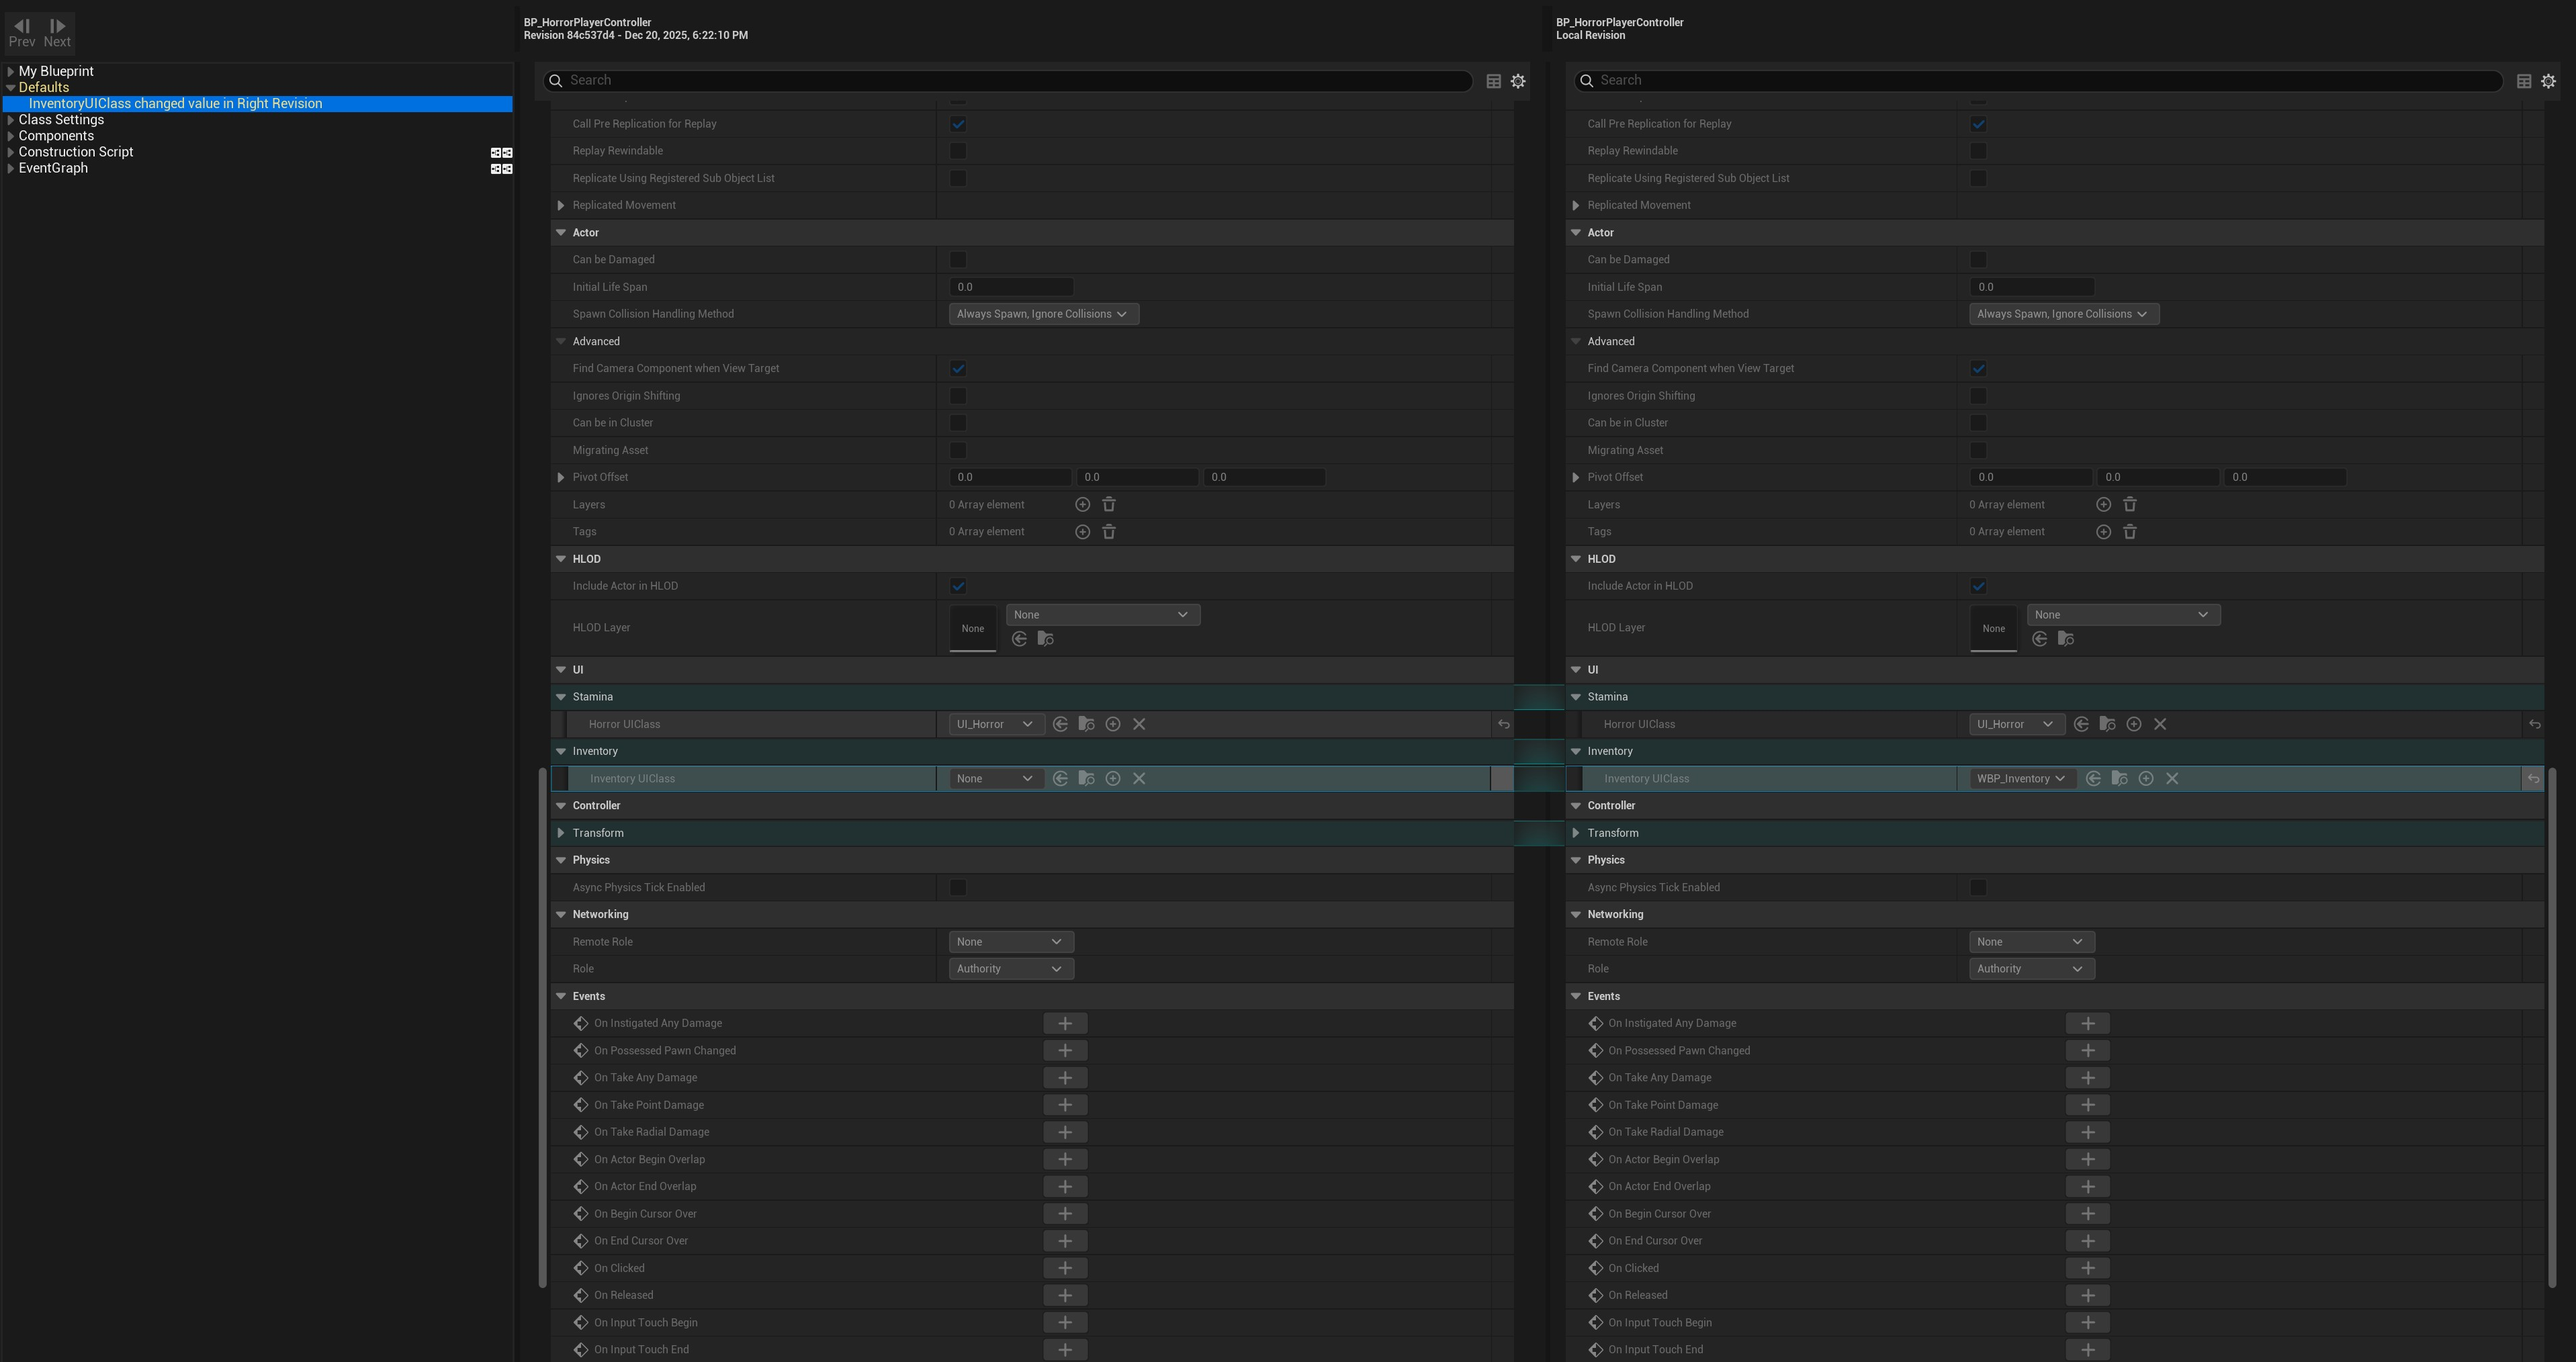
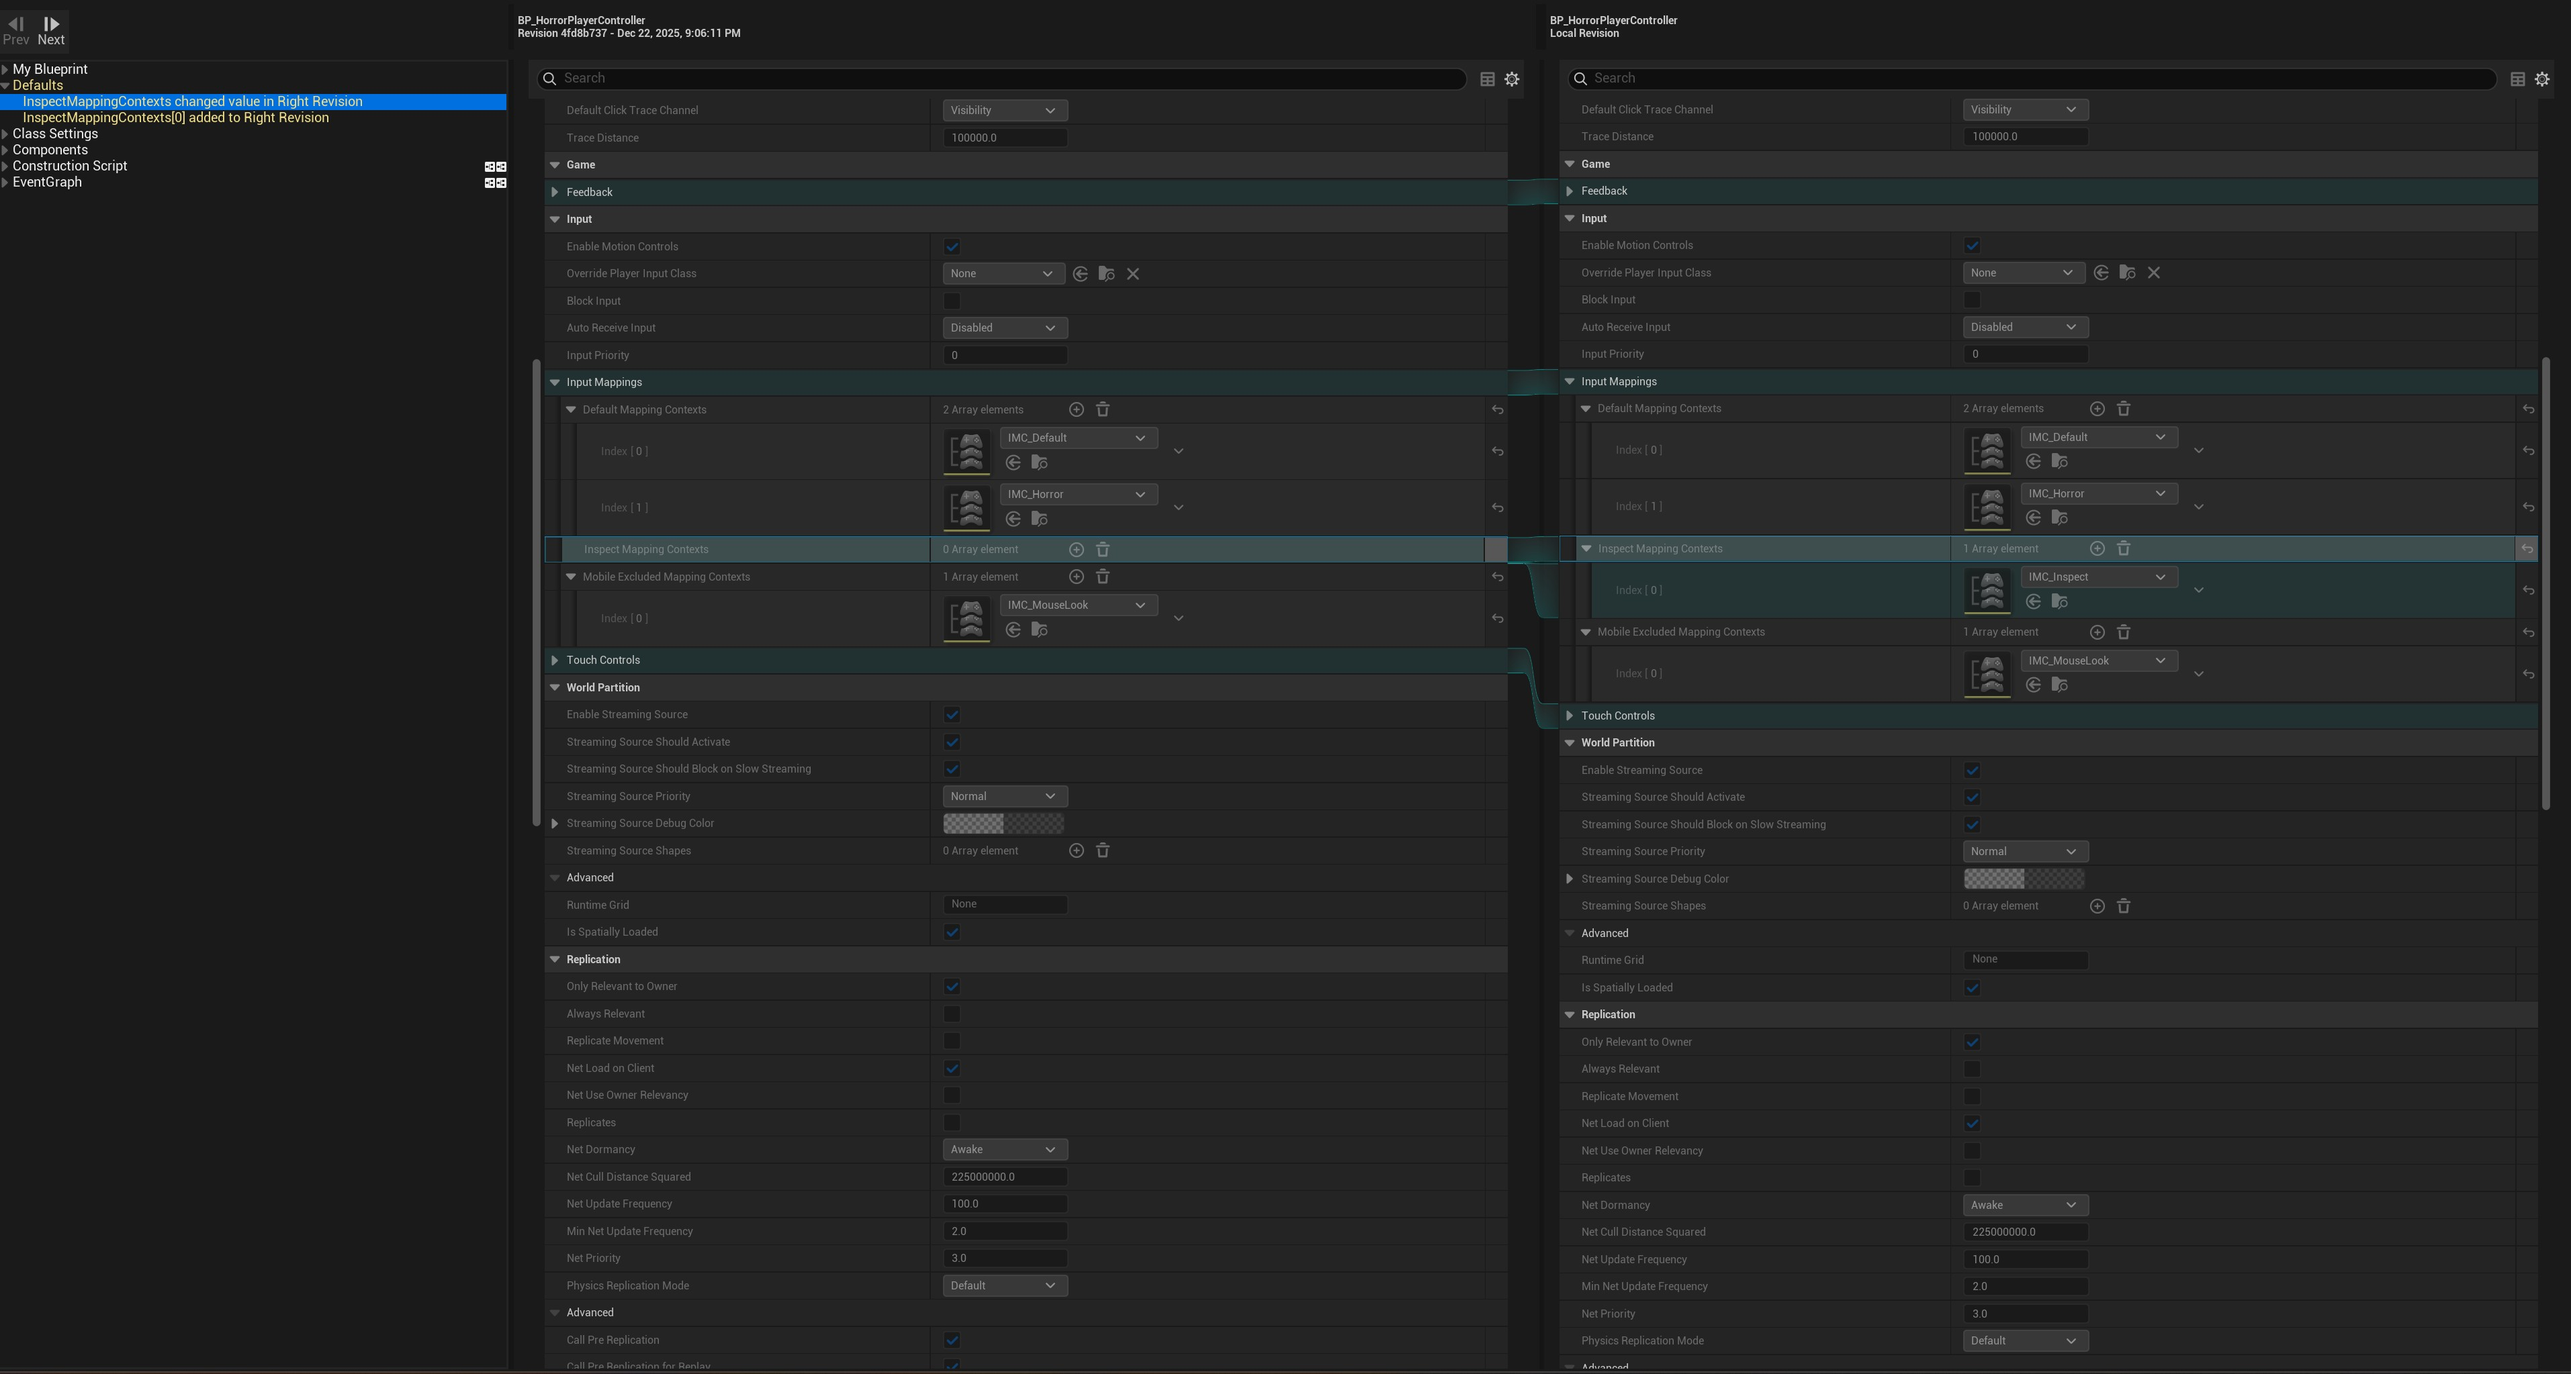
[Add] Inventory and cursor toggle on pressing I

diff --git a/Source/The_Turnatable/Private/Core/HorrorPlayerController.cpp b/Source/The_Turnatable/Private/Core/HorrorPlayerController.cpp
@@ -9,6 +9,7 @@
 #include "Core/HorrorCharacter.h"
 #include "UI/HorrorUI.h"
 #include "The_Turnatable.h"
+#include "Inventory/TTInventoryComponent.h"
 #include "UI/TTInventoryUI.h"
 #include "Widgets/Input/SVirtualJoystick.h"
 
@@ -63,8 +64,16 @@ void AHorrorPlayerController::OnPossess(APawn* aPawn)
 			if (!InventoryUI)
 			{
 				InventoryUI = CreateWidget<UTTInventoryUI>(this, InventoryUIClass);
-				InventoryUI->AddToViewport(0);
 				InventoryUI->SetUpInventoryComponent(HorrorCharacter);
+			}
+
+			// Listen to delegates
+
+			if (UTTInventoryComponent* InventoryComponent = HorrorCharacter->GetComponentByClass<UTTInventoryComponent>())
+			{
+				InventoryComponent->OnInventoryToggleDelegate.AddDynamic(InventoryUI, &UTTInventoryUI::ToggleInventory);
+				InventoryComponent->OnInventoryToggleDelegate.RemoveDynamic(this, &AHorrorPlayerController::ToggleInventory);
+				InventoryComponent->OnInventoryToggleDelegate.AddDynamic(this, &AHorrorPlayerController::ToggleInventory);
 			}
 		}
 	}
@@ -101,4 +110,27 @@ bool AHorrorPlayerController::ShouldUseTouchControls() const
 {
 	// are we on a mobile platform? Should we force touch?
 	return SVirtualJoystick::ShouldDisplayTouchInterface() || bForceTouchControls;
+}
+
+void AHorrorPlayerController::ToggleInventory(bool bOpen)
+{
+	UE_LOG(LogTemp, Warning, TEXT("Inventory toggled to %d"), bOpen)
+	bEnableClickEvents = bOpen;
+	bShowMouseCursor = bOpen;
+
+	if (bOpen)
+	{
+		if (UEnhancedInputLocalPlayerSubsystem* Subsystem = ULocalPlayer::GetSubsystem<UEnhancedInputLocalPlayerSubsystem>(GetLocalPlayer()))
+		{
+			Subsystem->ClearAllMappings();
+			for (UInputMappingContext* CurrentContext : InspectMappingContexts)
+			{
+				Subsystem->AddMappingContext(CurrentContext, 0);
+			}
+		}
+	}
+	else
+	{
+		SetupInputComponent();
+	}
 }

diff --git a/Source/The_Turnatable/Private/Core/Inventory/TTInventoryComponent.h b/Source/The_Turnatable/Private/Core/Inventory/TTInventoryComponent.h
@@ -8,7 +8,7 @@
 
 
 class UTTItem;
-
+DECLARE_DYNAMIC_MULTICAST_DELEGATE_OneParam(FOnInventoryToggle, bool, Open);
 UCLASS(ClassGroup=(Custom), meta=(BlueprintSpawnableComponent))
 class THE_TURNATABLE_API UTTInventoryComponent : public UActorComponent
 {
@@ -16,9 +16,12 @@ class THE_TURNATABLE_API UTTInventoryComponent : public UActorComponent
 protected:
 	TArray<UTTItem*> Inventory;
 	// Sets default values for this component's properties
+	UPROPERTY(EditAnywhere, BlueprintReadWrite, Category="Inventory")
+	bool bInventoryOpen;
 	
 public:
 	UTTInventoryComponent();
+	FOnInventoryToggle OnInventoryToggleDelegate;
 
 	virtual void PostInitProperties() override;
 
@@ -28,4 +31,5 @@ public:
 	void RemoveItem(UTTItem* ItemToRemove);
 	
 	bool HasItem(UTTItem* ItemToCheck);
+	void ToggleInventory();
 };

diff --git a/Source/The_Turnatable/Public/Core/HorrorPlayerController.h b/Source/The_Turnatable/Public/Core/HorrorPlayerController.h
@@ -47,9 +47,12 @@ protected:
 	UPROPERTY(EditAnywhere, Category ="Input|Input Mappings")
 	TArray<UInputMappingContext*> DefaultMappingContexts;
 
+	UPROPERTY(EditAnywhere, Category="Input|Input Mappings")
+	TArray<UInputMappingContext*> InspectMappingContexts;
 	/** Input Mapping Contexts */
 	UPROPERTY(EditAnywhere, Category="Input|Input Mappings")
 	TArray<UInputMappingContext*> MobileExcludedMappingContexts;
+
 
 	/** Mobile controls widget to spawn */
 	UPROPERTY(EditAnywhere, Category="Input|Touch Controls")
@@ -73,4 +76,7 @@ protected:
 
 	/** Returns true if the player should use UMG touch controls */
 	bool ShouldUseTouchControls() const;
+
+	UFUNCTION()
+	void ToggleInventory(bool bOpen);
 };

diff --git a/Source/The_Turnatable/Private/Core/HorrorCharacter.cpp b/Source/The_Turnatable/Private/Core/HorrorCharacter.cpp
@@ -63,7 +63,7 @@ void AHorrorCharacter::SetupPlayerInputComponent(UInputComponent* PlayerInputCom
 			EnhancedInputComponent->BindAction(SprintAction, ETriggerEvent::Started, this, &AHorrorCharacter::DoStartSprint);
 			EnhancedInputComponent->BindAction(SprintAction, ETriggerEvent::Completed, this, &AHorrorCharacter::DoEndSprint);
 			EnhancedInputComponent->BindAction(InteractAction, ETriggerEvent::Started, InteractionComponent	, &UTTInteractionComponent::PrimaryInteract);
-
+			EnhancedInputComponent->BindAction(InventoryAction, ETriggerEvent::Started, InventoryComponent, &UTTInventoryComponent::ToggleInventory);
 		}
 	}
 }

diff --git a/Source/The_Turnatable/Public/Core/HorrorCharacter.h b/Source/The_Turnatable/Public/Core/HorrorCharacter.h
@@ -42,6 +42,10 @@ protected:
 	/** Interact input action */
 	UPROPERTY(EditAnywhere, Category ="Input")
 	UInputAction* InteractAction;
+
+	/** Interact input action */
+	UPROPERTY(EditAnywhere, Category ="Input")
+	UInputAction* InventoryAction;
 	
 	/** If true, we're sprinting */
 	bool bSprinting = false;

diff --git a/Source/The_Turnatable/Private/Core/Inventory/TTInventoryComponent.cpp b/Source/The_Turnatable/Private/Core/Inventory/TTInventoryComponent.cpp
@@ -44,3 +44,9 @@ bool UTTInventoryComponent::HasItem(UTTItem* ItemToCheck)
 {
 	return Inventory.Contains(ItemToCheck);
 }
+
+void UTTInventoryComponent::ToggleInventory()
+{
+	bInventoryOpen = !bInventoryOpen;
+	OnInventoryToggleDelegate.Broadcast(bInventoryOpen);
+}

diff --git a/Source/The_Turnatable/Public/UI/TTInventoryUI.h b/Source/The_Turnatable/Public/UI/TTInventoryUI.h
@@ -23,4 +23,6 @@ public:
 
 	UFUNCTION(BlueprintImplementableEvent, Category="Inventory", meta = (DisplayName = "Add Item"))
 	void BP_AddItem(UTTItem* Item);
+	UFUNCTION()
+	void ToggleInventory(bool bOpen);
 };

diff --git a/Source/The_Turnatable/Private/UI/TTInventoryUI.cpp b/Source/The_Turnatable/Private/UI/TTInventoryUI.cpp
@@ -19,3 +19,8 @@ void UTTInventoryUI::OnAddItem(UTTItem* Item)
 {
 	BP_AddItem(Item);
 }
+
+void UTTInventoryUI::ToggleInventory(bool bOpen)
+{
+	bOpen? AddToViewport() : RemoveFromParent();
+}
